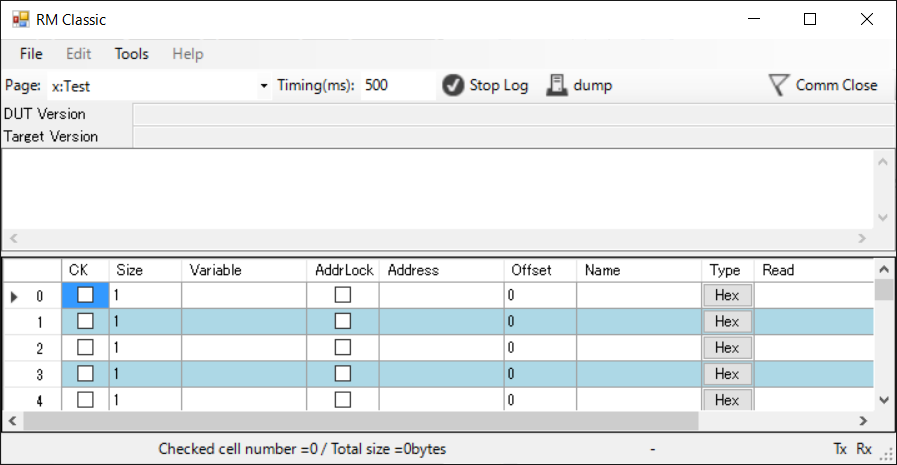
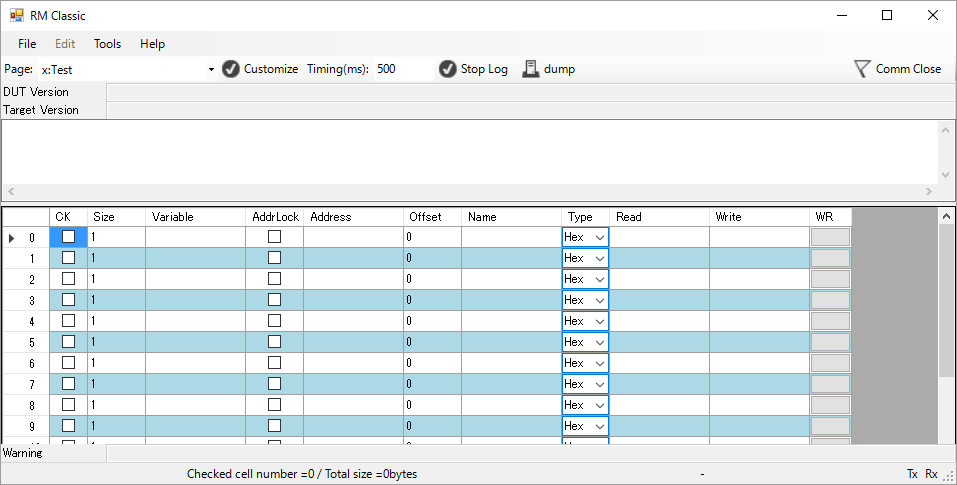
Update Readme

diff --git a/rmApplication/MainForm.cs b/rmApplication/MainForm.cs
@@ -32,7 +32,7 @@ namespace rmApplication
 
 			var tmpVSettingFactor = new ViewSetting();
 
-			for (int i = 0; i < 5; i++)
+			for (int i = 0; i < 16; i++)
 			{
 				tmpVSettingFactor.DataSetting.Add(new DataSetting());
 			}

diff --git a/README.md b/README.md
@@ -1,6 +1,6 @@
 # RM Classic
-RM Classic is a debug monitor tool for Arduino, mbed and so on.  
-This tool provides monitoring variables via serial communication interface to your target. You can read and write internal variables in embedded CPU.
+RM Classic is a debug monitor tool for embedded platform such as Arduino.  
+This tool provides monitoring variables via serial or TCP/IP communicationinterface to your target. You can read and write internal variables in embedded systems.
 RM Classic can only run on windows, but [Cross-platform edition](https://github.com/NaoNaoMe/RM-Classic-Cross-Platform) is available.
 
 ![RM Classic screen](mdContents/RMScreenShot_1_Initial.png "screenshot")
@@ -10,139 +10,3 @@ RM Classic needs the embedded software driver, which is called [RM-Comm](https:/
 
 ## License
 MIT
-
-
-# How to use RM Classic
-This tutorial describes the introduction of RM Classic. The following procedures are how to use RM Classic with your Arduino. 
-You could find a demonstartion on my [youtube channel](https://youtu.be/uLL1HGZ19iA).
-
-
-## Table of Contents
-- 1 Quick Start
- - [1.1 Build RM Classic](#11-build-rm-classic)
- - [1.2 Upload an example sketch](#12-upload-an-example-sketch)
- - [1.3 Configure RM Classic options](#13-configure-rm-classic-options)
- - [1.4 Communicate to Arduino](#14-communicate-to-arduino)
-- 2 Configuration
- - [2.1 Enable to change Variables](#21-enable-to-change-variables)
- - [2.2 Preparing to make a map file](#22-preparing-to-make-a-map-file)
- - [2.3 Import map file to RM Classic](#23-import-map-file-to-rm-classic)
- - [2.4 Configure variables and other items](#24-configure-variables-and-other-items)
-- 3 Another feature
- - [3.1 Logging and receive dump data](#32-logging-and-receive-dump-data)
- - [3.2 Communication through WiFi](#32-communication-through-wifi)
-
-## 1.1 Build RM Classic
-First of all, you need build RM Classic.
-RM Classic is built on Visual Studio, so please download and install latest Visual Studio Express edition.
-Download zip file from RM Classic Repository, you can find out the solution file(\*.sln) in unzip folder, open solution file and build it.
-The following window appears when you build succeeds.
-
-![RM Classic screen](mdContents/RMScreenShot_1_Initial.png "screenshot")
-
-## 1.2 Upload an example sketch
-Please refer to [RM Comm](https://github.com/NaoNaoMe/RM-Comm) repository page.
-
-## 1.3 Configure RM Classic options
-After add RM Comm library in Arduino IDE, you need to configure RM Classic setting.
-RM Classic needs a configuration file which is called View Setting file.
-RM Comm library has an example View Setting file which named 'ArduinoUnoSetting_StV001_TgVRmSample.xml'.
-You can find out in Arduino libraries directory, '\\Arduino\\libraries\\RM-Comm-master\\ViewSetting Sample'.
-To import View Setting file, navigate to: File > Open > View file.
-
-![RM Classic screen](mdContents/RMScreenShot_2_OpenViewfile.png "screenshot")
-
-RM Classic is displayed as follows, when importing is success.
-
-![RM Classic screen](mdContents/RMScreenShot_3_ReadXml.png "screenshot")
-
-You must specify the configuration of your serial port before you communicate to your target. UART properties of sample sketch are following values.
-+ Baud rate: 9600bps
-+ Data bits: 8 bits (fixed on RM Classic)
-+ Parity: none (fixed on RM Classic)
-
-Comm Port should appropriately select for your target.
-
-Next, you must specify the configuration of address wides.
-Arduino Uno based on the ATmega328P, so you need to select 'Address:2byte'.
-
-To configure these settings, navigate to: Tools > Options.  
-![RM Classic screen](mdContents/RMScreenShot_4_Setting.png "screenshot")
-
-## 1.4 Communicate to Arduino
-Finally, when you click 'Comm Close' icon, the icon turns to 'Comm Open', and RM Classic communicates with your target.
-You can see Counter value in which first row is increasing.
-
-![RM Classic screen](mdContents/RMScreenShot_5_Communicating.gif "screenshot")
-
-"WR" column is button as changing value command.
-If you click a button in "Count Disable" row, the counter value will be stopped soon.
-
-![RM Classic screen](mdContents/RMScreenShot_5_1_Communicating.gif "screenshot")
-
-## 2.1 Enable to change Variables
-If you might want to read another variables, you need a map file.
-Generally, map file contains variable name, size and address in SRAM of CPU.
-RM Classic refers address and size, and access specified variables.
-
-In order to make a map file, you need elf file.
-Arduino IDE generates elf file and various object files in temporary folders, but this folder changes with every build.
-And also Elf file isn't easy to read.  
-So, you should relocate folder place to easily find elf file and 'avr-readelf' command output information about elf file.
-
-These below site are very helpful to changing preference.  
-[Arduino Preferences](https://www.arduino.cc/en/Hacking/Preferences)  
-[Where to find Arduino Hex files or Output Binaries](https://www.kanda.com/blog/microcontrollers/avr-microcontrollers/find-arduino-hex-files-output-binaries)  
-But before warned changing folder, Arduino IDE remove all files and folders at specified path.
-
-## 2.2 Preparing to make a map file
-First of all, folder structure is following hierarchy in this introduction.
-* D:\WorkSpace\Arduino
-    + \tmp
-    + \map
-
-Open a preference text of Arduino IDE and add below text.
-```
-build.path=D:\WorkSpace\Arduino\tmp
-```
-
-Make a batch file in map folder, the batch file contents is following text.
-```
-for /f "delims=" %%a in ('where /r ..\tmp\ *.elf') do @set RESULT=%%a
-
-path=C:\Program Files\Arduino\hardware\tools\avr\bin
-
-avr-readelf -a %RESULT% | avr-c++filt > test.map
-
-```
-After you build your sketch on Arduino IDE, you execute the batch file, and you can find 'test.map' in 'D:\WorkSpace\Arduino\tmp'.
-
-## 2.3 Import map file to RM Classic
-Import generated map file, navigate to: File > Open > Map file.
-After importing a map file, RM Classic is enable auto-complete function in 'variable column'.
-
-![RM Classic screen](mdContents/RMScreenShot_6_OpenMapfile.png "screenshot")
-
-## 2.4 Configure variables and other items
-Click to: Tools > Customize > Setting View. RM Classic allow configuration of variables and other cells.
-
-![RM Classic screen](mdContents/RMScreenShot_7_EntryEditmode.png "screenshot")
-
-RM Classic is under setting state, appearance is like following.
-RM Classic shows address and size in a map file when you modified value in 'variable column'.
-
-![RM Classic screen](mdContents/RMScreenShot_8_EditingView.png "screenshot")
-
-Click Setting View again, RM Classic goes back and can communicate to the target.
-
-## 3.1 Logging and receive dump data
-RM Classic supports logging and dump mode.
-These results of functions copy to 'clip board'.
-
-## 3.2 Communication through WiFi
-RM Classic supports network socket(as TCP client).
-You could try to communicate with your target through local network if you have UART-WiFi bridge that supports transparent mode.
-
-If you have the esp8266 board, [ESP8266-WiFi-UART-transparent-bridge](https://github.com/NaoNaoMe/ESP8266-WiFi-UART-transparent-bridge) is useful.
-You could find a tutorial on my [youtube channel](https://youtu.be/QDO9URz7r5U).
-
